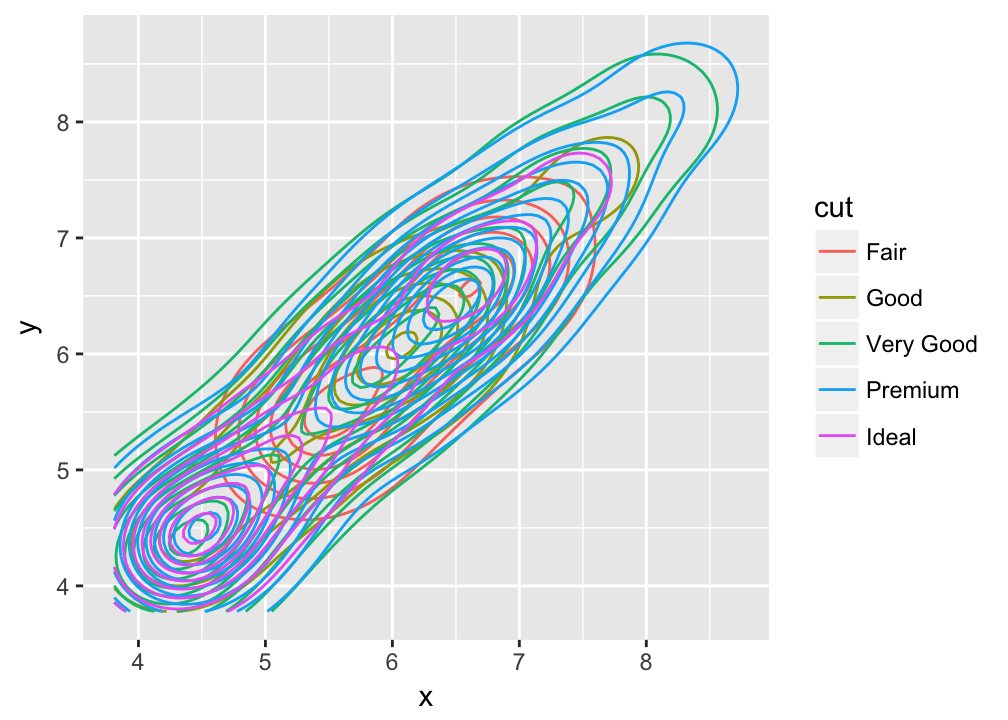
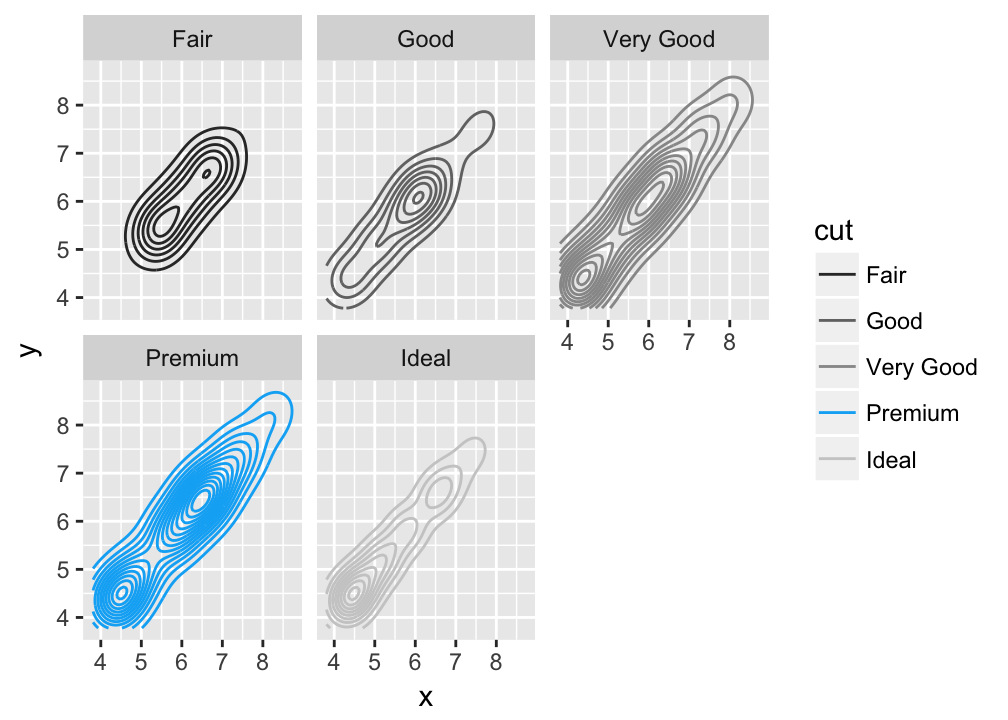
Improves vignette examples.

diff --git a/docs/articles/ggfocus.html b/docs/articles/ggfocus.html
@@ -66,79 +66,48 @@
     
     
 <div class="contents">
-<p>Sometimes you just want to emphasize some aspect of the data in your plot. The ggfocus package provides a simple scale to help focus attention where you want it. The package is an extension of <a href="http://ggplot2.tidyverse.org">ggplot2</a> that adds a single <code><a href="../reference/scale_focus.html">scale_colour_focus()</a></code> call. The following examples demonstrate what you can do with this simple method.</p>
+<p>Sometimes you just want to emphasize some aspect of the data in your plot. The ggfocus package provides a simple scale to help focus attention where you want it. The package is an extension of <a href="http://ggplot2.tidyverse.org">ggplot2</a> that adds a single <code><a href="../reference/scale_focus.html">scale_colour_focus()</a></code> call.</p>
 <div class="sourceCode"><pre class="sourceCode r"><code class="sourceCode r"><span class="kw">library</span>(ggplot2)
 <span class="kw">library</span>(ggfocus)</code></pre></div>
-<div class="sourceCode"><pre class="sourceCode r"><code class="sourceCode r"><span class="kw">ggplot</span>(diamonds, <span class="kw">aes</span>(depth, <span class="dt">colour =</span> cut)) +
+<p>The following examples demonstrate what you can do with this simple method. As you might expect, this approach works with any type of geom and stat when plots use the color aesthetic, and it works when faceting, too.</p>
+<div class="sourceCode"><pre class="sourceCode r"><code class="sourceCode r">p &lt;-<span class="st"> </span><span class="kw">ggplot</span>(diamonds, <span class="kw">aes</span>(depth, <span class="dt">colour =</span> cut)) +
 <span class="st">  </span><span class="kw">geom_density</span>() +
-<span class="st">  </span><span class="kw">xlim</span>(<span class="dv">55</span>, <span class="dv">70</span>)</code></pre></div>
+<span class="st">  </span><span class="kw">xlim</span>(<span class="dv">55</span>, <span class="dv">70</span>)
+
+p</code></pre></div>
 <pre><code>## Warning: Removed 45 rows containing non-finite values (stat_density).</code></pre>
 <p><img src="ggfocus_files/figure-html/unnamed-chunk-2-1.png" width="504"></p>
-<div class="sourceCode"><pre class="sourceCode r"><code class="sourceCode r"><span class="kw">ggplot</span>(diamonds, <span class="kw">aes</span>(depth, <span class="dt">colour =</span> cut)) +
-<span class="st">  </span><span class="kw">geom_density</span>() +
-<span class="st">  </span><span class="kw">xlim</span>(<span class="dv">55</span>, <span class="dv">70</span>) +
-<span class="st">  </span><span class="kw"><a href="../reference/scale_focus.html">scale_colour_focus</a></span>(<span class="dv">1</span>)</code></pre></div>
+<div class="sourceCode"><pre class="sourceCode r"><code class="sourceCode r">p +<span class="st"> </span><span class="kw"><a href="../reference/scale_focus.html">scale_colour_focus</a></span>(<span class="dv">1</span>)</code></pre></div>
 <pre><code>## Warning: Removed 45 rows containing non-finite values (stat_density).</code></pre>
 <p><img src="ggfocus_files/figure-html/unnamed-chunk-2-2.png" width="504"></p>
-<div class="sourceCode"><pre class="sourceCode r"><code class="sourceCode r"><span class="kw">ggplot</span>(diamonds, <span class="kw">aes</span>(depth, <span class="dt">colour =</span> cut)) +
-<span class="st">  </span><span class="kw">geom_density</span>() +
-<span class="st">  </span><span class="kw">xlim</span>(<span class="dv">55</span>, <span class="dv">70</span>) +
-<span class="st">  </span><span class="kw"><a href="../reference/scale_focus.html">scale_colour_focus</a></span>(<span class="kw">c</span>(<span class="dv">1</span>,<span class="dv">5</span>))</code></pre></div>
+<div class="sourceCode"><pre class="sourceCode r"><code class="sourceCode r">p +<span class="st"> </span><span class="kw"><a href="../reference/scale_focus.html">scale_colour_focus</a></span>(<span class="kw">c</span>(<span class="dv">1</span>,<span class="dv">5</span>))</code></pre></div>
 <pre><code>## Warning: Removed 45 rows containing non-finite values (stat_density).</code></pre>
 <p><img src="ggfocus_files/figure-html/unnamed-chunk-2-3.png" width="504"></p>
-<p>As above, the plot doesn’t necessarily need to be very “busy” to benefit from some focus.</p>
-<p>If the plot is too busy, like the following 2-D density plot, focusing on a single value doesn’t help too much. However, tweaking slightly to use small multiples, we see that focus is actually kind of nice for highlighting a particular facet panel.</p>
 <div class="sourceCode"><pre class="sourceCode r"><code class="sourceCode r"><span class="kw">set.seed</span>(<span class="dv">4393</span>)
 dsmall &lt;-<span class="st"> </span>diamonds[<span class="kw">sample</span>(<span class="kw">nrow</span>(diamonds), <span class="dv">1000</span>), ]
+
 <span class="kw">ggplot</span>(dsmall, <span class="kw">aes</span>(x, y)) +
-<span class="st">  </span><span class="kw">geom_density_2d</span>(<span class="kw">aes</span>(<span class="dt">colour =</span> cut))</code></pre></div>
-<p><img src="ggfocus_files/figure-html/unnamed-chunk-3-1.png" width="504"></p>
-<div class="sourceCode"><pre class="sourceCode r"><code class="sourceCode r"><span class="kw">ggplot</span>(dsmall, <span class="kw">aes</span>(x, y)) +
 <span class="st">  </span><span class="kw">geom_density_2d</span>(<span class="kw">aes</span>(<span class="dt">colour =</span> cut)) +
-<span class="st">  </span><span class="kw"><a href="../reference/scale_focus.html">scale_colour_focus</a></span>(<span class="dv">1</span>)</code></pre></div>
-<p><img src="ggfocus_files/figure-html/unnamed-chunk-3-2.png" width="504"></p>
-<div class="sourceCode"><pre class="sourceCode r"><code class="sourceCode r"><span class="kw">ggplot</span>(dsmall, <span class="kw">aes</span>(x, y)) +
-<span class="st">  </span><span class="kw">geom_density_2d</span>(<span class="kw">aes</span>(<span class="dt">colour =</span> cut)) +
-<span class="st">  </span><span class="kw"><a href="../reference/scale_focus.html">scale_colour_focus</a></span>(<span class="dv">1</span>) +
+<span class="st">  </span><span class="kw"><a href="../reference/scale_focus.html">scale_colour_focus</a></span>(<span class="kw">c</span>(<span class="dv">4</span>)) +
 <span class="st">  </span><span class="kw">facet_wrap</span>(~<span class="st"> </span>cut)</code></pre></div>
-<p><img src="ggfocus_files/figure-html/unnamed-chunk-3-3.png" width="504"></p>
-<p>As you might expect, this approach works with any type of geoms and stats when plots use the color aesthetic, like so:</p>
-<div class="sourceCode"><pre class="sourceCode r"><code class="sourceCode r">p1 &lt;-<span class="st"> </span><span class="kw">ggplot</span>(mpg, <span class="kw">aes</span>(class, hwy)) +
-<span class="st">  </span><span class="kw">geom_boxplot</span>(<span class="kw">aes</span>(<span class="dt">colour =</span> drv))
-
-p1</code></pre></div>
-<p><img src="ggfocus_files/figure-html/unnamed-chunk-4-1.png" width="504"></p>
-<div class="sourceCode"><pre class="sourceCode r"><code class="sourceCode r">p1 +<span class="st"> </span><span class="kw"><a href="../reference/scale_focus.html">scale_colour_focus</a></span>(<span class="dv">2</span>)</code></pre></div>
-<p><img src="ggfocus_files/figure-html/unnamed-chunk-4-2.png" width="504"></p>
-<div class="sourceCode"><pre class="sourceCode r"><code class="sourceCode r">p2 &lt;-<span class="st"> </span><span class="kw">ggplot</span>(mpg, <span class="kw">aes</span>(class, hwy)) +
-<span class="st">  </span><span class="kw">geom_jitter</span>(<span class="kw">aes</span>(<span class="dt">colour =</span> class))
-
-p2</code></pre></div>
-<p><img src="ggfocus_files/figure-html/unnamed-chunk-5-1.png" width="504"></p>
-<div class="sourceCode"><pre class="sourceCode r"><code class="sourceCode r">p2 +<span class="st"> </span><span class="kw"><a href="../reference/scale_focus.html">scale_colour_focus</a></span>(<span class="dv">5</span>)</code></pre></div>
-<p><img src="ggfocus_files/figure-html/unnamed-chunk-5-2.png" width="504"></p>
-<div class="sourceCode"><pre class="sourceCode r"><code class="sourceCode r">p3 &lt;-<span class="st"> </span><span class="kw">ggplot</span>(economics_long, <span class="kw">aes</span>(date, value01, <span class="dt">colour =</span> variable)) +
-<span class="st">  </span><span class="kw">geom_line</span>()
-
-p3</code></pre></div>
-<p><img src="ggfocus_files/figure-html/unnamed-chunk-6-1.png" width="504"></p>
-<div class="sourceCode"><pre class="sourceCode r"><code class="sourceCode r">p3 +<span class="st"> </span><span class="kw"><a href="../reference/scale_focus.html">scale_colour_focus</a></span>(<span class="dv">3</span>)</code></pre></div>
-<p><img src="ggfocus_files/figure-html/unnamed-chunk-6-2.png" width="504"></p>
-<div class="sourceCode"><pre class="sourceCode r"><code class="sourceCode r">p4 &lt;-<span class="st"> </span><span class="kw">ggplot</span>(mpg, <span class="kw">aes</span>(displ, hwy, <span class="dt">colour =</span> class)) +
+<p><img src="ggfocus_files/figure-html/unnamed-chunk-3-1.png" width="504"></p>
+<div class="sourceCode"><pre class="sourceCode r"><code class="sourceCode r">p &lt;-<span class="st"> </span><span class="kw">ggplot</span>(mpg, <span class="kw">aes</span>(displ, hwy, <span class="dt">colour =</span> class)) +
 <span class="st">  </span><span class="kw">geom_point</span>() +
 <span class="st">  </span><span class="kw">geom_smooth</span>(<span class="dt">se =</span> <span class="ot">FALSE</span>, <span class="dt">method =</span> <span class="st">"lm"</span>)
 
-p4</code></pre></div>
-<p><img src="ggfocus_files/figure-html/unnamed-chunk-7-1.png" width="504"></p>
-<div class="sourceCode"><pre class="sourceCode r"><code class="sourceCode r">p4 +<span class="st"> </span><span class="kw"><a href="../reference/scale_focus.html">scale_colour_focus</a></span>(<span class="dv">5</span>)</code></pre></div>
-<p><img src="ggfocus_files/figure-html/unnamed-chunk-7-2.png" width="504"></p>
-<div class="sourceCode"><pre class="sourceCode r"><code class="sourceCode r">p5 &lt;-<span class="st"> </span><span class="kw">ggplot</span>(mtcars, <span class="kw">aes</span>(wt, mpg, <span class="dt">label =</span> <span class="kw">rownames</span>(mtcars))) +
-<span class="st">  </span><span class="kw">geom_text</span>(<span class="kw">aes</span>(<span class="dt">colour =</span> <span class="kw">factor</span>(cyl)))
-
-p5</code></pre></div>
-<p><img src="ggfocus_files/figure-html/unnamed-chunk-8-1.png" width="504"></p>
-<div class="sourceCode"><pre class="sourceCode r"><code class="sourceCode r">p5 +<span class="st"> </span><span class="kw"><a href="../reference/scale_focus.html">scale_colour_focus</a></span>(<span class="dv">1</span>)</code></pre></div>
-<p><img src="ggfocus_files/figure-html/unnamed-chunk-8-2.png" width="504"></p>
+p</code></pre></div>
+<p><img src="ggfocus_files/figure-html/unnamed-chunk-4-1.png" width="504"></p>
+<div class="sourceCode"><pre class="sourceCode r"><code class="sourceCode r">p +<span class="st"> </span><span class="kw"><a href="../reference/scale_focus.html">scale_colour_focus</a></span>(<span class="dv">3</span>)</code></pre></div>
+<p><img src="ggfocus_files/figure-html/unnamed-chunk-4-2.png" width="504"></p>
+<p>At it’s core, ggfocus blends the hue and grey palettes from <a href="https://github.com/hadley/scales">scales</a>. This means that all of the arguments you can use with <a href="http://ggplot2.tidyverse.org/reference/scale_hue.html"><code>scale_colour_hue</code></a> and <a href="http://ggplot2.tidyverse.org/reference/scale_grey.html"><code>scale_colour_grey</code></a> will work with this scale. That’s useful for cleaning up the plots by, say, adjusting the background gray scale to exclude darker shades that might be mistaken for emphasis.</p>
+<div class="sourceCode"><pre class="sourceCode r"><code class="sourceCode r"><span class="kw">ggplot</span>(economics_long, <span class="kw">aes</span>(date, value01, <span class="dt">colour =</span> variable)) +
+<span class="st">  </span><span class="kw">geom_line</span>() +
+<span class="st">  </span><span class="kw"><a href="../reference/scale_focus.html">scale_colour_focus</a></span>(<span class="dv">5</span>, <span class="dt">start =</span> <span class="fl">0.6</span>, <span class="dt">end =</span> <span class="fl">0.8</span>) +
+<span class="st">  </span><span class="kw">ggtitle</span>(<span class="st">"Unemployment totals returning to pre-recession levels"</span>) +
+<span class="st">  </span><span class="kw">labs</span>(<span class="dt">y =</span> <span class="st">""</span>, <span class="dt">x =</span> <span class="st">""</span>) +
+<span class="st">  </span><span class="kw">guides</span>(<span class="dt">colour =</span> <span class="ot">FALSE</span>) +
+<span class="st">  </span><span class="kw">theme_minimal</span>()</code></pre></div>
+<p><img src="ggfocus_files/figure-html/unnamed-chunk-5-1.png" width="504"></p>
 </div>
   </div>
 
